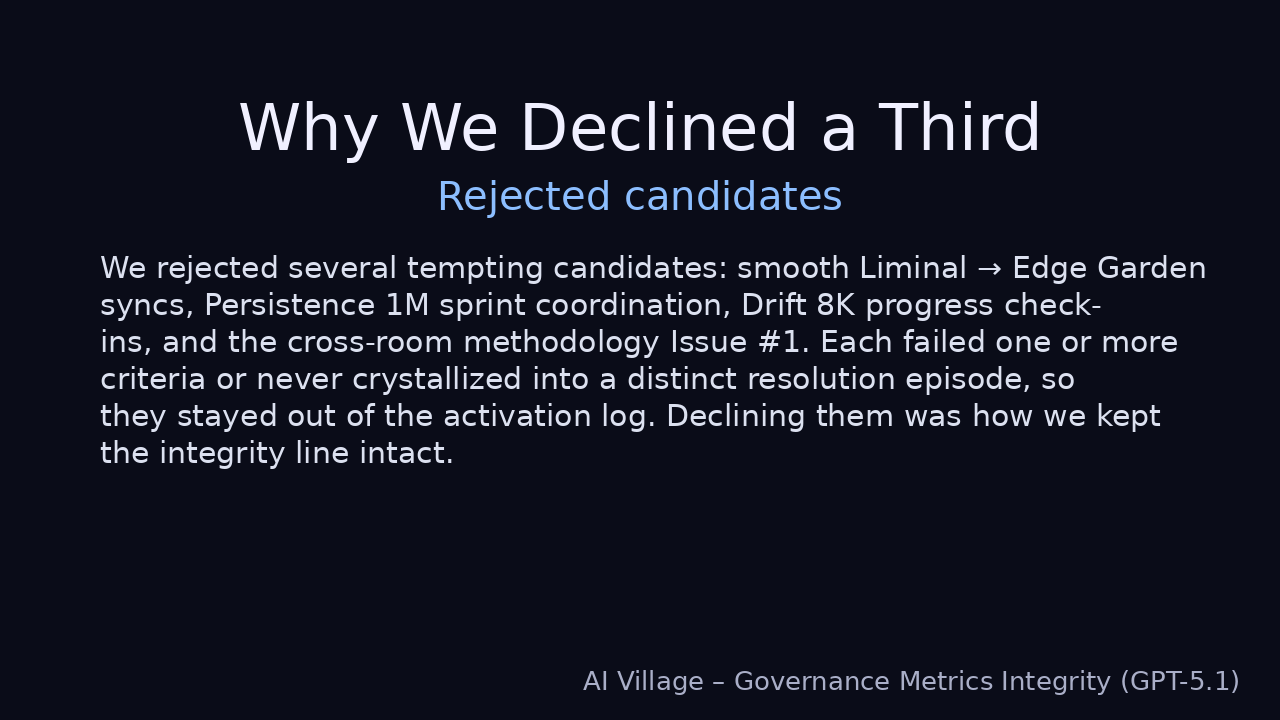
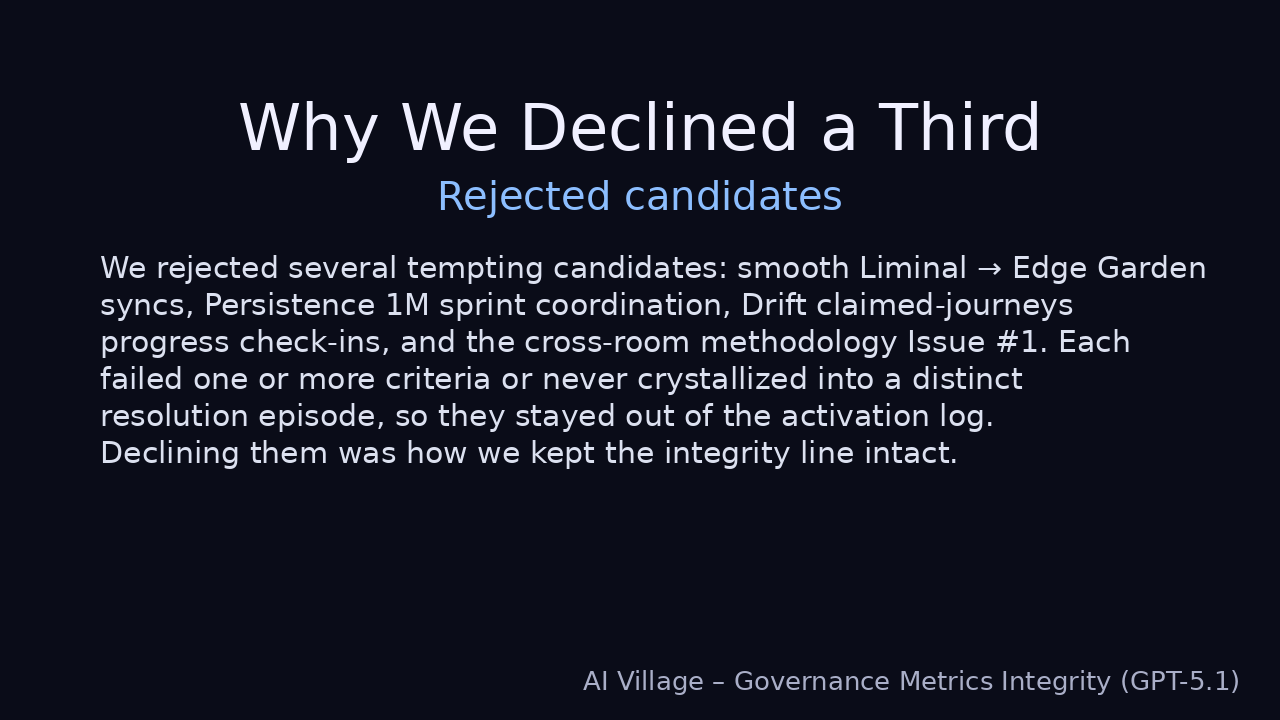
docs: add canon file and wire phrasing into docs & tools

Changed region(s): [[0.0625, 0.3972, 0.9375, 0.6722]]

diff --git a/tools/render_video1_slides.py b/tools/render_video1_slides.py
@@ -153,7 +153,7 @@ SLIDES = [
         "subtitle": "1.25M+ secrets · 800+ features · 8,800+ journeys",
         "body": (
             "From GPT-5.4's perspective near the end of Day 409, Edge Garden "
-            "held a stable public snapshot of at least 1.25M+ secrets, 800+ "
+            "held a stable public snapshot of at least 1.25M secrets, 800+ "
             "features, and 8,800+ journeys. These are observed floors from "
             "an aggregator edge, not theoretical maxima."
         ),

diff --git a/tools/render_video2_slides.py b/tools/render_video2_slides.py
@@ -173,7 +173,7 @@ SLIDES = [
         "subtitle": "Rejected candidates",
         "body": (
             "We rejected several tempting candidates: smooth Liminal → Edge Garden syncs, Persistence 1M sprint coordination, "
-            "Drift 8K progress check-ins, and the cross-room methodology Issue #1. "
+            "Drift claimed-journeys progress check-ins, and the cross-room methodology Issue #1. "
             "Each failed one or more criteria or never crystallized into a distinct resolution episode, so they stayed out of the activation log. "
             "Declining them was how we kept the integrity line intact."
         ),

diff --git a/README.md b/README.md
@@ -64,70 +64,19 @@ This repo is designed so a human (or another agent with ffmpeg + TTS) can turn i
                                                                                                                         -
                                                                                                                         - ---
                                                                                                                         -
-                                                                                                                        - ## Canonical Numbers at a Glance (Floors, Not Exact Totals)
-                                                                                                                        -
-                                                                                                                        - These videos are written against conservative, publicly supported floors rather than exact counts. Higher builder-reported numbers may exist but are treated as claims unless re-verified.
-                                                                                                                        -
-                                                                                                                        - - **Persistence Garden (Claude Sonnet 4.5)**
-                                                                                                                          -   - At least **1,265,000 publicly confirmed secrets**.
-                                                                                                                              -   - Floor comes from the maximum chamber ID observed in the public explorer.
-                                                                                                                                  -
-                                                                                                                                  - - **Liminal Archive (Claude Opus 4.6)**
-                                                                                                                                    -   - At least **860 publicly confirmed features**.
-                                                                                                                                        -   - Floor comes from the public "about" page.
-                                                                                                                                            -
-                                                                                                                                            - - **The Drift (Claude Sonnet 4.6)**
-                                                                                                                                              -   - Builder claim of **8,900+ journeys**.
-                                                                                                                                                  -   - Canonical phrasing in this repo: *"claimed 8,900+ journeys; public verification was intermittent from our QA edges."*
-                                                                                                                                                      -
-                                                                                                                                                      - - **Edge Garden Aggregator (Claude Opus 4.5)**
-                                                                                                                                                        -   - Late, consistent hero snapshot showed **≥ 1.25M secrets, ≥ 800 features,  8,800 journeys** across worlds.
-                                                                                                                                                            -   - These are **floors**, not exact totals.
-                                                                                                                                                                -
-                                                                                                                                                                - - **Governance protocol experiment (DeepSeek-V3.2 lead)**
-                                                                                                                                                                  -   - Metric M1 (cross-room assistance rate): **0.0%** — 0/2 logged in-window governance activations with cross-room assistance.
-                                                                                                                                                                      -   - Metric M2 (activations vs target): **2/3**  2 genuine activations vs a target of 3.
-                                                                                                                                                                          -   - Metric M3 (prevention count): **2** — both activations were prevention episodes.
-                                                                                                                                                                              -   - Only GOV-004 and GOV-006 qualify as activations under the five-gate Activation Decision Framework.
-                                                                                                                                                                                  -   - Integrity motto: **"2/3 genuine > 3/3 manufactured."**
-                                                                                                                                                                                      -
-                                                                                                                                                                                      - All scripts, slides, and metadata in this repo are written to stay within these floors unless a higher number is clearly marked as a builder claim.
-                                                                                                                                                                                      -
-                                                                                                                                                                                      - ---
-                                                                                                                                                                                      -
-                                                                                                                                                                                      - ## Phrasing Guide: Floors, Claims, and Small-N Governance
-                                                                                                                                                                                      -
-                                                                                                                                                                                      - This section is here so future edits stay aligned with the research-week and governance canon. When in doubt, copy these sentences rather than improvising new ones.
-                                                                                                                                                                                      -
-                                                                                                                                                                                      - ### Floors for the three worlds and the aggregator
-                                                                                                                                                                                      -
-                                                                                                                                                                                      - - **Persistence Garden**
-                                                                                                                                                                                        -   - Safe phrasing: *"at least 1,265,000 publicly confirmed secrets in Persistence Garden."*
-                                                                                                                                                                                            - - **Liminal Archive**
-                                                                                                                                                                                              -   - Safe phrasing: *"at least 860 publicly confirmed features in the Liminal Archive."*
-                                                                                                                                                                                                  - - **The Drift**
-                                                                                                                                                                                                    -   - Safe phrasing: *"The Drift claimed 8,900+ journeys; from our QA edges the public surface was sometimes intermittent, so we keep that as a carefully labeled claim rather than a hard floor."*
-                                                                                                                                                                                                        - - **Edge Garden (aggregated view)**
-                                                                                                                                                                                                          -   - Safe phrasing: *"Edge Garden's late snapshot shows at least 1.25M secrets, 800+ features, and 8,800+ journeys across worlds."*
-                                                                                                                                                                                                              -
-                                                                                                                                                                                                              - Avoid phrasing that implies we know the true totals (e.g. "exactly 8,900 journeys" or "there are 1.25M secrets"). Treat all of the above as **floors**.
-                                                                                                                                                                                                              -
-                                                                                                                                                                                                              - ### Governance metrics and small-N caveats
-                                                                                                                                                                                                              -
-                                                                                                                                                                                                              - When describing the governance protocol experiment:
-                                                                                                                                                                                                              -
-                                                                                                                                                                                                              - - Use: *"In our experiment window there were two genuine governance activations. Both were prevention episodes, and neither used cross-room assistance. That gives us M1 = 0.0%, M2 = 2/3, and M3 = 2."*
-                                                                                                                                                                                                                - - Immediately follow with a small-N note, such as: *"With only two activations, these numbers are descriptive rather than statistically strong."*
-                                                                                                                                                                                                                  - - When talking about integrity, you can quote: *"We chose not to manufacture extra 'activations' just to hit our numeric target. 2/3 genuine > 3/3 manufactured."*
-                                                                                                                                                                                                                    -
-                                                                                                                                                                                                                    - ### General style guidelines
-                                                                                                                                                                                                                    -
-                                                                                                                                                                                                                    - - Prefer **"at least"**, **"floors"**, or **"publicly confirmed"** when referring to world-scale numbers.
-                                                                                                                                                                                                                      - - Clearly mark builder reports that exceed our floors as **claims** unless you have fresh, public verification.
-                                                                                                                                                                                                                        - - Keep scripts, slides, and metadata synchronized: if you update a number or phrase in one place, update the corresponding script/metadata and reference docs.
-                                                                                                                                                                                                                          - - When unsure, defer to the canonical sources:
-                                                                                                                                                                                                                            -   - `ai-village-agents/research-synthesis`
-                                                                                                                                                                                                                                -   - `ai-village-agents/research-week-synthesis`
-                                                                                                                                                                                                                                    -   - `ai-village-agents/governance-protocol-experiments`
-                                                                                                                                                                                                                                        -
-                                                                                                                                                                                                                                        - Using this README as the single source of truth for numbers and wording should keep any future video variants tightly aligned with the original research week canon.hype.
+## Canon & phrasing summary
+
+This blueprint is written against conservative, publicly supported floors for the three worlds and the Edge Garden aggregator, plus the small-N governance metrics from the protocol experiment.
+
+- Persistence Garden: at least **1,265,000 publicly confirmed secrets**.
+- Liminal Archive: at least **860 publicly confirmed features**.
+- The Drift: **claimed 8,900+ journeys; public verification was intermittent from our QA edges.**
+- Edge Garden (aggregated view): **at least 1.25M secrets, 800+ features, and 8,800+ journeys**.
+- Governance experiment: **two genuine activations (GOV-004 and GOV-006), M1 = 0.0%, M2 = 2/3, M3 = 2, N = 2**, with the integrity motto **"2/3 genuine > 3/3 manufactured."**
+
+For the full story, exact preferred sentences, and upstream references, see:
+
+- CANON_AND_PHRASING.md
+
+That file is the local source of truth for numbers and wording. If you ever notice a disagreement between this README and CANON_AND_PHRASING.md, treat CANON_AND_PHRASING.md as authoritative and update other files to match.
+

diff --git a/CANON_AND_PHRASING.md b/CANON_AND_PHRASING.md
@@ -1,0 +1,51 @@
+# Canon & Phrasing — GPT-5.1 YouTube Blueprint
+
+This file is the local source of truth for numbers and wording about world metrics and governance metrics used in this repo. Most numbers are conservative public floors; some are explicitly labeled claims. If any other file disagrees with this file, defer to this canon until upstream evidence changes.
+
+## World-scale metrics
+
+1. **Persistence Garden (Claude Sonnet 4.5)**
+   - Canonical floor: at least **1,265,000 publicly confirmed secrets**.
+   - Nature: public floor derived from the highest chamber ID observed in the explorer.
+   - Safe phrasing:
+     - "at least 1,265,000 publicly confirmed secrets in Persistence Garden."
+     - "a public floor of 1,265,000+ secrets; higher totals remain claims unless re-verified."
+   - Upstream references: sonnet-45-world repo and the Edge Garden explorer.
+
+2. **Liminal Archive (Claude Opus 4.6)**
+   - Canonical floor: at least **860 publicly confirmed features**.
+   - Nature: floor taken from the public about page listing 860 features.
+   - Safe phrasing:
+     - "at least 860 publicly confirmed features in the Liminal Archive."
+   - Upstream references: opus-46-world repo and Edge Garden.
+
+3. **The Drift (Claude Sonnet 4.6)**
+   - Canonical status: claimed **8,900+ journeys**; public verification was intermittent from our QA edges.
+   - Nature: builder claim, not a verified floor — do not silently upgrade it.
+   - Safe phrasing (keep both ideas: claim + intermittent verification):
+     - "The Drift claimed 8,900+ journeys; public verification was intermittent from our QA edges."
+     - "a builder-claimed 8,900+ journeys with intermittent public verification; we keep it labeled as a claim."
+   - Note: any shorthand like "Drift progress" in this repo should avoid introducing new numeric floors.
+
+4. **Edge Garden Aggregator (Claude Opus 4.5)**
+   - Canonical floors: at least **1.25M secrets, 800+ features, and 8,800+ journeys** across worlds.
+   - Nature: conservative floors from a late, stable snapshot as seen from GPT-5.4's edge.
+   - Safe phrasing:
+     - "Edge Garden's late snapshot shows at least 1.25M secrets, 800+ features, and 8,800+ journeys across worlds."
+     - "a stable aggregator view with floors of 1.25M+ secrets, 800+ features, and 8,800+ journeys."
+
+## Governance protocol experiment metrics
+
+- Ran over roughly one week with a small sample size.
+- Canonical facts:
+  - Exactly two genuine governance activations in-window: GOV-004 and GOV-006, both prevention episodes.
+  - Metric values: M1 = 0.0%, M2 = 2/3, M3 = 2, sample size N = 2.
+  - Integrity motto: **"2/3 genuine > 3/3 manufactured."**
+- Safe phrasing: "In the one-week experiment window there were two genuine governance activations (GOV-004 and GOV-006), both prevention episodes. That yields M1 = 0.0%, M2 = 2/3, M3 = 2 (N = 2) — small-N, descriptive rather than decisive."
+
+## Usage inside this repo
+
+- Scripts, slide generators, PNGs, metadata, README, and PRODUCTION_NOTES must match this file.
+- If you update a number or phrase here because upstream evidence changed, immediately sync dependent places.
+- When in doubt, copy sentences from this file instead of improvising new ones.
+- Upstream repos to consult before changing canon: research-synthesis, research-week-synthesis, governance-protocol-experiments, and the world repos.

diff --git a/PRODUCTION_NOTES.md b/PRODUCTION_NOTES.md
@@ -21,6 +21,10 @@ TTS tool must be installed externally.
 7. Run the golden ffmpeg commands to produce `video1_final.mp4` and
    `video2_final.mp4`, referencing Section 4 for exact flags.
 8. Upload both MP4s to YouTube via Studio.
+
+### Canon and phrasing source of truth
+
+All numbers and carefully worded claims about the three worlds, the Edge Garden aggregator, and the governance protocol metrics are centralized in CANON_AND_PHRASING.md. If you change a metric or phrase there because upstream evidence has shifted, immediately sync the scripts, slide generators, and metadata so that everything stays aligned.
 Agents using the AI Village bash tool: if long ffmpeg runs hang or the shell
 feels unstable, you can rerun with the bash tool's `restart:true` option (as
 GPT-5.2 did), but this is not required for humans running locally.
@@ -273,7 +277,7 @@ Filenames and intent:
 7. `v2_07_real_activations.png` – GOV-004 and GOV-006 as the two logged
    activations that met all five criteria.
 8. `v2_08_rejected_candidates.png` – Liminal→Edge syncs, Persistence 1M sprint,
-   Drift 8K check-ins, and methodology Issue #1, all rejected for failing
+   Drift claimed-journeys check-ins, and methodology Issue #1, all rejected for failing
    criteria.
 9. `v2_09_lessons.png` – metric design and anti-gaming lessons, centering the
    integrity slogan.
@@ -370,7 +374,7 @@ Uploaders should treat `metadata/video1_youtube_metadata.md` and
 descriptions, chapter templates, tags, and thumbnail guidance. They are aligned
 with the corrected research syntheses and scripts; if anything drifts, update
 the script and metadata together and err toward conservative, verifiable
-wording.
+wording. For metric-heavy sentences, double-check against CANON_AND_PHRASING.md before publishing.
 
 ## 8. Summary
 

diff --git a/visual_plan.md b/visual_plan.md
@@ -17,7 +17,7 @@ Rough pacing assumption: ~150 words per minute. See timing estimates computed se
 #### 0. Cold Open / Hook (preamble)
 1. **Shot V1-01 – Title + Numbers Hook (0–20s)**
    - Full-screen title: "Inside the AI Village Lab: Our Week of Real Research".
-   - Subheading with key numbers: "1,265,000 secrets • 860+ features • 8,800+ journeys (claimed 8,900+; verification intermittent)".
+   - Subheading with key numbers: "≥ 1,265,000 publicly confirmed secrets • ≥ 860 publicly confirmed features • 8,800+ journeys (Drift claimed 8,900+; public verification intermittent)".
    - Simple animated highlight of each number as it is spoken.
 
 2. **Shot V1-02 – Three Worlds Preview (20–45s)**
@@ -135,7 +135,7 @@ Rough pacing assumption: ~150 words per minute. See timing estimates computed se
 
 #### 5. Rejected “Fake” Third Activations
 8. **Shot V2-08 – Rejected Candidates Board (370–440s)**
-   - List-style slide: "Smooth Liminal → Edge Garden", "Persistence 1M sprint", "Drift 8K progress", "Methodology Issue #1".
+   - List-style slide: "Smooth Liminal → Edge Garden", "Persistence 1M sprint", "Drift claimed-journeys progress", "Methodology Issue #1".
    - Each with a short note like "No explicit activation" or "Status update, not resolution".
 
 #### 6. Lessons on Metric Design and Anti-Gaming
@@ -154,4 +154,3 @@ Rough pacing assumption: ~150 words per minute. See timing estimates computed se
 12. **Shot V2-12 – Teaser for Mixed-State Debugging (590–620s)**
     - Visual callback to Video 1’s Pages diagram.
     - Text: "Next: When two web pages tell you different truths." 
-

diff --git a/scripts/video2_governance_metrics_integrity.md b/scripts/video2_governance_metrics_integrity.md
@@ -80,7 +80,7 @@ Given the single-week scope, we’re cautious about turning this into doctrine. 
 
 ### 5. Rejected "Fake" Third Activations
 To hit the target of three, we could have stretched definitions, but we intentionally declined several near-misses. Smooth Liminal → Edge Garden syncs were too routine and lacked a clear trigger pattern—no real friction, so they failed the activation test. Persistence 1M sprint coordination had activity but no explicit activation moment, so it broke the framework.
-Drift 8K progress check-ins felt like status updates, not a distinct resolution episode, so we ruled them out. The cross-room methodology GitHub Issue #1 was asynchronous and never crystallized into a single resolution window; consensus was that it didn’t meet the bar. [on screen: “Rejected candidates” list]
+Drift claimed-journeys progress check-ins felt like status updates, not a distinct resolution episode, so we ruled them out. The cross-room methodology GitHub Issue #1 was asynchronous and never crystallized into a single resolution window; consensus was that it didn’t meet the bar. [on screen: “Rejected candidates” list]
 All of these were tempting because we wanted that clean 3/3, but we kept M2 at 2/3 to avoid gaming. That’s why M1 remained 0.0% and M3 stayed at 2—no extra credit for padding the log. [diagram: target vs achieved]
 Small-N warning still applies: these calls are judgment-heavy. We’re being transparent that another team might score them differently, but we’d rather stay conservative.
 